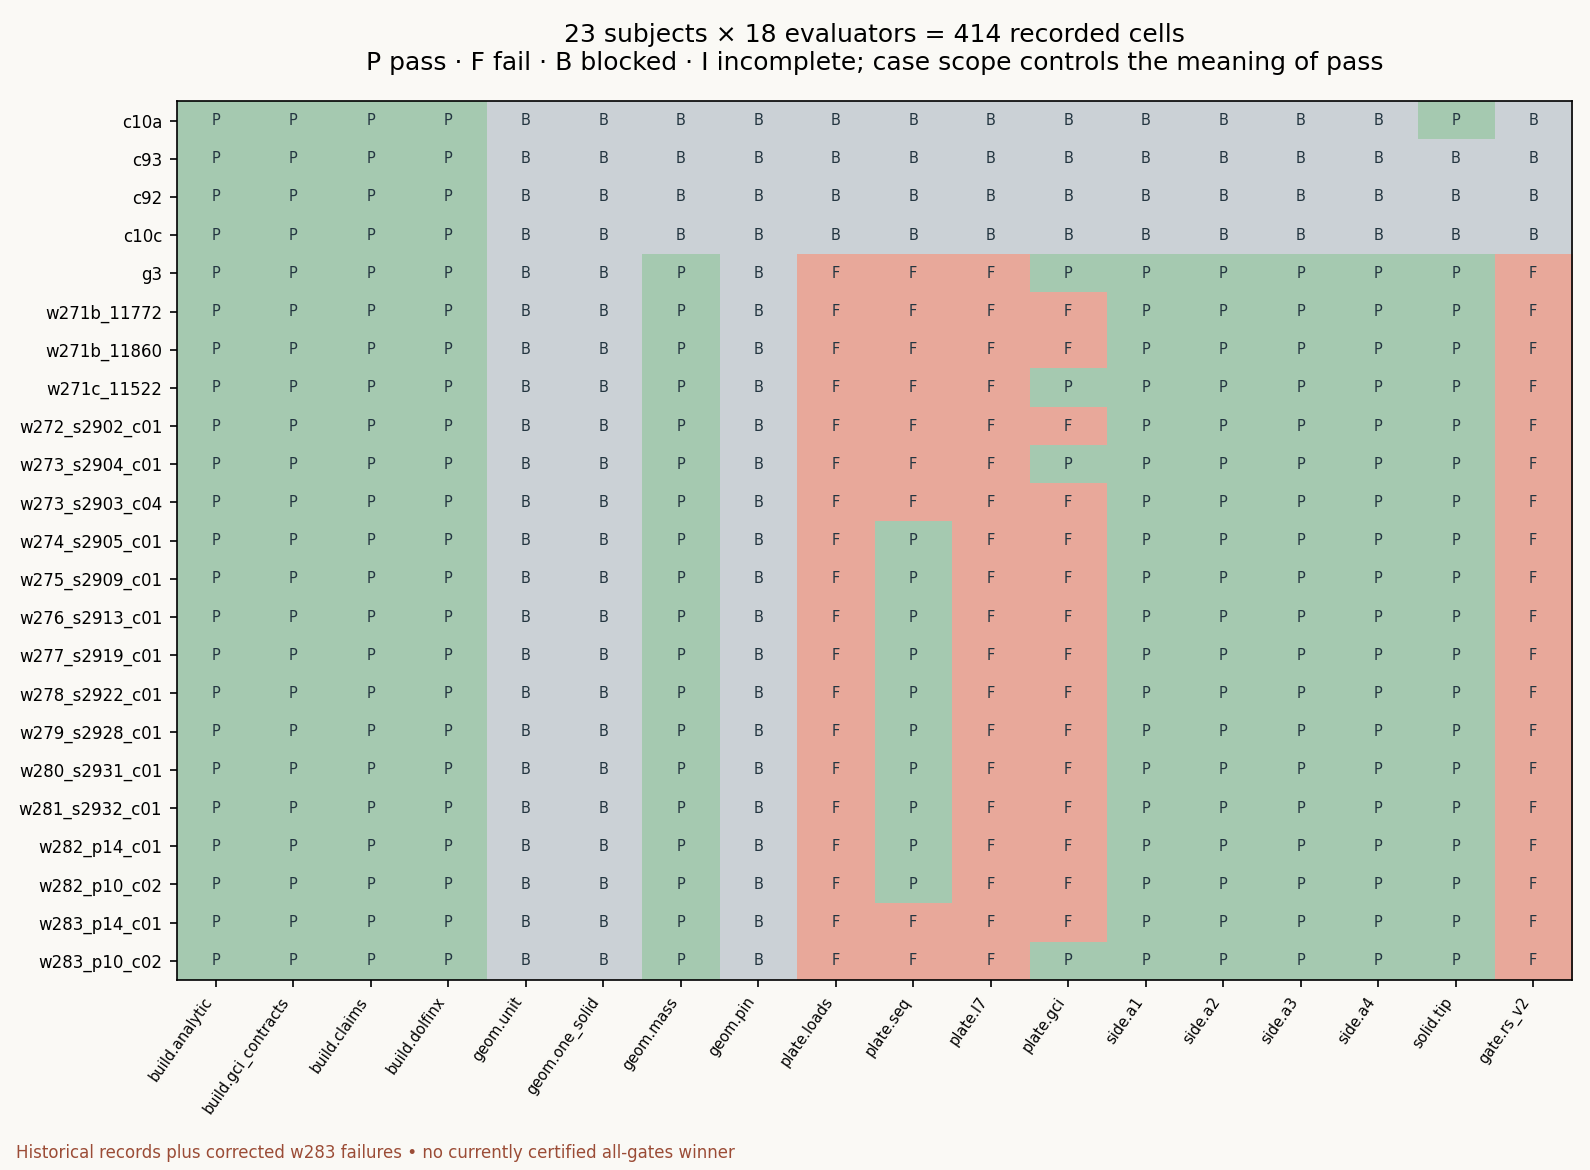
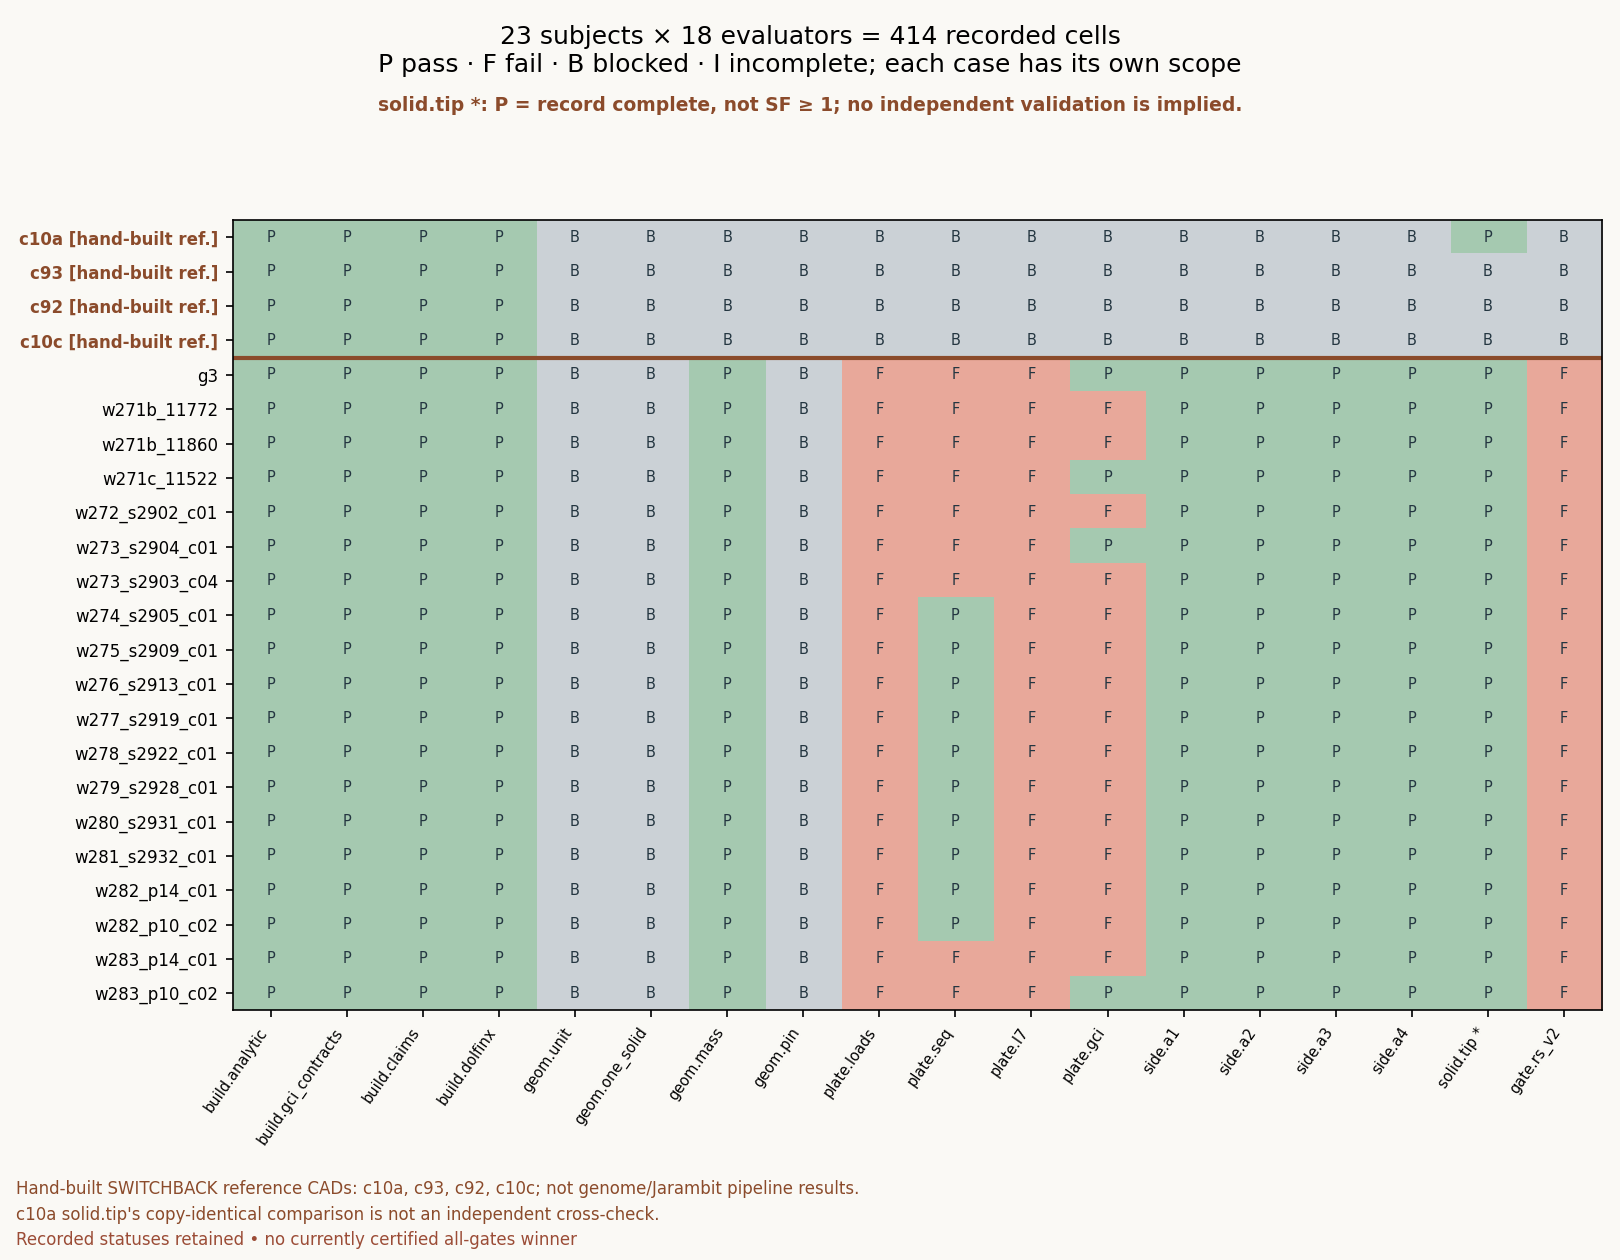
docs: distinguish hand-built battery references and solver record status

diff --git a/ops/render/paper/battery.py b/ops/render/paper/battery.py
@@ -20,6 +20,8 @@ ROOT=Path(__file__).resolve().parents[3]
 sys.path.insert(0,str(ROOT/'ops/wave_figures'))
 import figlib
 
+REFERENCE_CADS = frozenset({'c10a', 'c93', 'c92', 'c10c'})
+
 
 def main():
     out=ROOT/'docs/figures/engineering_gates';out.mkdir(parents=True,exist_ok=True)
@@ -29,11 +31,17 @@ def main():
     statuses=['pass','fail','blocked','incomplete'];symbols=['P','F','B','I']
     colors=['#a5c9b0','#e8a89a','#cbd1d6','#efd39a']
     paths=[ROOT/'evidence/cad_battery'/f'{s}.json' for s in subjects]
-    data=[];points=[];totals=Counter()
+    data=[];points=[];subject_scopes=[];totals=Counter()
     for subject,path in zip(subjects,paths):
         subprocess.run(['git','ls-files','--error-unmatch',str(path.relative_to(ROOT))],cwd=ROOT,check=True,stdout=subprocess.DEVNULL)
         doc=json.loads(path.read_text());cases={c['id']:(i,c) for i,c in enumerate(doc['cases'])}
         assert set(cases)==set(case_ids) and len(doc['cases'])==18
+        reference=subject in REFERENCE_CADS
+        expected_roles=('native_cad','archived_not_on_main') if reference else ('genome',)
+        assert doc['role'] in expected_roles
+        subject_scopes.append(dict(subject=subject,role=doc['role'],source=str(path.relative_to(ROOT)),
+            pointer='/role',scope='hand-built SWITCHBACK reference CAD; not a genome/Jarambit pipeline result' if reference else 'genome',
+            plot_label=subject+' [hand-built ref.]' if reference else subject))
         row=[]
         for cid in case_ids:
             i,c=cases[cid];st=c['status'];assert st in statuses
@@ -41,17 +49,28 @@ def main():
             points.append(dict(subject=subject,case=cid,status=st,kind=c['kind'],source=str(path.relative_to(ROOT)),pointer=f'/cases/{i}/status'))
         data.append(row)
     plt.rcParams.update({'font.family':'DejaVu Sans','font.size':8})
-    fig,ax=plt.subplots(figsize=(10.6,7.8),facecolor='#faf9f5')
+    fig,ax=plt.subplots(figsize=(10.8,8.4),facecolor='#faf9f5')
     ax.imshow(data,cmap=ListedColormap(colors),vmin=-.5,vmax=3.5,aspect='auto')
-    ax.set_xticks(range(18),case_ids,rotation=55,ha='right',fontsize=7)
-    ax.set_yticks(range(23),subjects,fontsize=8)
+    ax.set_xticks(range(18),[c+' *' if c=='solid.tip' else c for c in case_ids],rotation=55,ha='right',fontsize=7)
+    ax.set_yticks(range(23),[s['plot_label'] for s in subject_scopes],fontsize=8)
+    for i,tick in enumerate(ax.get_yticklabels()):
+        if subjects[i] in REFERENCE_CADS:tick.set_color('#8b4b2b');tick.set_fontweight('bold')
+        if i+1<len(subjects) and (subjects[i] in REFERENCE_CADS)!=(subjects[i+1] in REFERENCE_CADS):
+            ax.axhline(i+.5,color='#8b4b2b',linewidth=2)
     for i,row in enumerate(data):
         for j,n in enumerate(row):ax.text(j,i,symbols[n],ha='center',va='center',fontsize=7,color='#243641')
-    ax.set_title('23 subjects × 18 evaluators = 414 recorded cells\nP pass · F fail · B blocked · I incomplete; case scope controls the meaning of pass',fontsize=12,pad=15)
-    fig.text(.01,.01,'Historical records plus corrected w283 failures • no currently certified all-gates winner',fontsize=8,color='#9b4c36')
-    fig.tight_layout(rect=(0,.03,1,1));figure=out/'fig_battery_23.png';fig.savefig(figure,dpi=150);plt.close(fig)
-    ledger=out/'battery_points.json';ledger.write_text(json.dumps({'schema':1,'totals':dict(totals),'cells':points},indent=1,sort_keys=True)+'\n')
-    figlib.write_manifest(str(figure),paths+[manifest,ledger,Path(__file__).resolve()],str(Path(__file__).resolve()),extra={'command':'python3 ops/render/paper/battery.py','case_status_totals':dict(totals),'denominator':414})
+    fig.suptitle('23 subjects × 18 evaluators = 414 recorded cells\nP pass · F fail · B blocked · I incomplete; each case has its own scope',fontsize=12,y=.98)
+    solid_scope='solid.tip *: P = record complete, not SF ≥ 1; no independent validation is implied.'
+    reference_scope='Hand-built SWITCHBACK reference CADs: c10a, c93, c92, c10c; not genome/Jarambit pipeline results.'
+    independence_note="c10a solid.tip's copy-identical comparison is not an independent cross-check."
+    fig.text(.5,.912,solid_scope,ha='center',fontsize=9,fontweight='bold',color='#8b4b2b')
+    fig.text(.01,.052,reference_scope,fontsize=8,color='#8b4b2b')
+    fig.text(.01,.032,independence_note,fontsize=8,color='#8b4b2b')
+    fig.text(.01,.012,'Recorded statuses retained • no currently certified all-gates winner',fontsize=8,color='#9b4c36')
+    fig.tight_layout(rect=(0,.075,1,.9));figure=out/'fig_battery_23.png';fig.savefig(figure,dpi=150);plt.close(fig)
+    annotations=dict(solid_tip_status=solid_scope,reference_cads=reference_scope,c10a_independence=independence_note)
+    ledger=out/'battery_points.json';ledger.write_text(json.dumps({'schema':1,'totals':dict(totals),'subjects':subject_scopes,'annotations':annotations,'cells':points},indent=1,sort_keys=True)+'\n')
+    figlib.write_manifest(str(figure),paths+[manifest,ledger,Path(__file__).resolve()],str(Path(__file__).resolve()),extra={'command':'python3 ops/render/paper/battery.py','case_status_totals':dict(totals),'denominator':414,'annotations':annotations,'hand_built_reference_cads':sorted(REFERENCE_CADS)})
     catalog=ROOT/'docs/v1/science/tests/TEST_CASE_CATALOG.json';cases=json.loads(catalog.read_text())['cases']
     counts=Counter(c['work_unit'] for c in cases);states=Counter(c['status'] for c in cases)
     summary=out/'assurance_inventory.json';summary.write_text(json.dumps({'schema':1,'source':str(catalog.relative_to(ROOT)),

diff --git a/ops/ci/gen_whitepaper.py b/ops/ci/gen_whitepaper.py
@@ -72,7 +72,7 @@ def hero(context=None):
         '',
         f'![All 16 engineering gates and margin vs threshold for {rec_subj}](figures/whitepaper/fig_w279_gate_margins.png)',
         '',
-        f'*Fig. 0b — All {n_tot} engineering gates (`{n_pass}/{n_tot}` pass) for `{rec_subj}` (`evidence/rs_v2/{rec_wave}_ultrarunner/{rec_subj}_cad_eval.json`, '
+        f'*Fig. 0b — Historical (pre-#82 model): All {n_tot} engineering gates (`{n_pass}/{n_tot}` pass) for `{rec_subj}` (`evidence/rs_v2/{rec_wave}_ultrarunner/{rec_subj}_cad_eval.json`, '
         f'`evidence/cad_battery/{rec_subj}.json`, manifest `docs/figures/whitepaper/fig_w279_gate_margins.png.manifest.json`): '
         f'(a) normalized structural safety ratios ($\\text{{value}}/\\text{{threshold}} \\ge 1.0$) and reserve percentages (`strict_lat = {em["strict_lat_rob_0p0625_n"]:.1f} N` / `SF = {em["sf_hunter_strict"]:.4f}` `+{100.0 * (em["sf_hunter_strict"] - 1.0):.2f} %`, '
         f'`twist_strict SF = {em["twist_tipzone_sf_strict"]:.3f}` `+{100.0 * (em["twist_tipzone_sf_strict"] - 1.0):.2f} %`, `twist_tip SF = {em["twist_tip_sf"]:.3f}` `+{100.0 * (em["twist_tip_sf"] - 1.0):.2f} %`, '

diff --git a/docs/WHITEPAPER.md b/docs/WHITEPAPER.md
@@ -36,7 +36,7 @@ Source: `evidence/rs_v2/w283_ultrarunner/*_{cad_eval,rs,solid_tip}.json`; raw so
 
 ![All 16 engineering gates and margin vs threshold for w282_p14_c01](figures/whitepaper/fig_w279_gate_margins.png)
 
-*Fig. 0b — All 16 engineering gates (`16/16` pass) for `w282_p14_c01` (`evidence/rs_v2/w282_ultrarunner/w282_p14_c01_cad_eval.json`, `evidence/cad_battery/w282_p14_c01.json`, manifest `docs/figures/whitepaper/fig_w279_gate_margins.png.manifest.json`): (a) normalized structural safety ratios ($\text{value}/\text{threshold} \ge 1.0$) and reserve percentages (`strict_lat = 262.6 N` / `SF = 1.0100` `+1.00 %`, `twist_strict SF = 1.125` `+12.50 %`, `twist_tip SF = 1.141` `+14.10 %`, `solid_tip_3d P2 SF = 1.4093` `+40.93 %`, `seq_ratio_cert = 1.201 >= 1.20` `+0.08 %`, `side.a4 supported seq = 4.042`, `buckling P_cr = 1521.6 N`, `dolfinx vs skfem = 0.0213 % <= 2.0 %`); (b) exact metrics and thresholds for all 16 `W_CAD_v2` gates (historical Wave-27 `g3_tip+00_t60_tt3` 3D CAD and FEM plates remain in §III-G and §III-H).*
+*Fig. 0b — Historical (pre-#82 model): All 16 engineering gates (`16/16` pass) for `w282_p14_c01` (`evidence/rs_v2/w282_ultrarunner/w282_p14_c01_cad_eval.json`, `evidence/cad_battery/w282_p14_c01.json`, manifest `docs/figures/whitepaper/fig_w279_gate_margins.png.manifest.json`): (a) normalized structural safety ratios ($\text{value}/\text{threshold} \ge 1.0$) and reserve percentages (`strict_lat = 262.6 N` / `SF = 1.0100` `+1.00 %`, `twist_strict SF = 1.125` `+12.50 %`, `twist_tip SF = 1.141` `+14.10 %`, `solid_tip_3d P2 SF = 1.4093` `+40.93 %`, `seq_ratio_cert = 1.201 >= 1.20` `+0.08 %`, `side.a4 supported seq = 4.042`, `buckling P_cr = 1521.6 N`, `dolfinx vs skfem = 0.0213 % <= 2.0 %`); (b) exact metrics and thresholds for all 16 `W_CAD_v2` gates (historical Wave-27 `g3_tip+00_t60_tt3` 3D CAD and FEM plates remain in §III-G and §III-H).*
 
 ![Committed Wave 283 exported CAD and corrected certificate](figures/whitepaper/fig_web_studio.png)
 
@@ -342,9 +342,9 @@ The [#75](https://github.com/neverhuman/jarambit/issues/75)–[#81](https://gith
 
 The final independent w283 fine meshes have 91,008 P2 tetrahedra / 416,583 DOFs. The distinct solvers agree to less than 0.04% in reported SF observations, yet both candidates fail. The [audit archive](../evidence/cert_integrity/v1.0.0-retracted/) preserves invalid certificates for traceability; corrected observations remain under [recertified](../evidence/cert_integrity/recertified/). The final identity migration explicitly reports `solve_rerun=false`, retaining prior real observations rather than claiming another solve. There is **no currently certified all-gates winner; 0/23 CAD subjects pass RS-v2 all-hard**. Any w284–w29x rejected-pipeline output is **PROVISIONAL** until re-certified on fixed main.
 
-![All 414 recorded CAD battery cells](figures/engineering_gates/fig_battery_23.png)
+![All 414 recorded cells, separating 19 genomes from four hand-built SWITCHBACK reference CADs](figures/engineering_gates/fig_battery_23.png)
 
-*Figure V1. The current **23-subject ×18-evaluator** battery. Case-specific pass means what that evaluator establishes; a complete solid-solver record can still have failing SF. `blocked` and `incomplete` cannot be silently counted as physical acceptance. [battery_points.json](figures/engineering_gates/battery_points.json) traces every cell to its committed source and JSON pointer.*
+*Figure V1. The current **23-subject ×18-evaluator** battery contains 19 genomes and four hand-built SWITCHBACK reference CADs (`c10a`, `c93`, `c92`, `c10c`), labeled above the separator; these four are not genome or Jarambit pipeline results. In `solid.tip`, P means record complete, not SF ≥1 or independent validation. c10a's stored copy-identical solver comparison is not an independent cross-check. `blocked` and `incomplete` cannot be silently counted as physical acceptance. [battery_points.json](figures/engineering_gates/battery_points.json) traces every cell to its committed source and JSON pointer.*
 
 RS-v2's ten groups add human-maximum static loads (16.2 N·m twist, 3427 N spine, provisional 3000 N ring-back), Goodman fatigue for 0…180 N at $R=0$, $10^7$ cycles, measured bearing ≥10 mm and bore radius ≥1.5 mm, measured apex ≤0.20 mm and half-angle ≤25°, and point-section/monotonicity requirements. The 1000 N in-plane tip case remains record-only. The companion §III gives the exact conjunction, material/fatigue equations, thresholds and measurement methods. The 18 battery evaluators include software contracts, geometry, plate/side diagnostics, the solid record and RS-v2; they are not 18 additional strength gates.
 

diff --git a/COMMS.md b/COMMS.md
@@ -238,3 +238,4 @@ Format: `YYYY-MM-DD HH:MM UTC | screen | claim / status / handoff`.
 2026-10-17 02:41 UTC | jarambit_paper | PROGRESS: Both existing papers extended with 16 source-derived gate subsubsections, exact RS-v2 groups and 23x18 battery, corrected assurance-catalog map/receipt limits and audit #75-#81/#82. Seven historical population/archive figures plus verification and 414-cell matrix regenerate from tracked files with point ledgers; repeated population generation gives identical PNG hashes. Blender 4.5.3 official checksum verified (Ubuntu 4.0.2 lacks OIDN), bounded Cycles 4 CPU/48 samples; 16 gate + 3 hero WebP atlas rendering. Added only figure registration lines in ops/ci/figures_required.txt so CI detects missing new manifests. PDF builder prepared for source commit; outputs/logs stay lane target/paper. Metrics 12, CI Python 154, assurance 28, research 141, history 72, laboratory 7 passed; solid suite ran 52 tests successfully with one opt-in slow rerun skipped; Rust workspace and D1 checks still running. No crates/evidence/owner pipeline edits.
 2026-10-17 02:55 UTC | jarambit_paper | HANDOFF: Paper branch is based on post-#82 main 4cd0f994e803 and ready for one focused PR. Extended both existing papers with every W_CAD gate, RS-v2 and 23x18=414 battery, actual assurance-catalog scope, certificate-integrity audit and corrected w283 failures (SF 0.9577/0.9578, 0/23 all_hard; no certified all-gates winner; rejected-pipeline w284-w29x PROVISIONAL). Added seven committed-data population/archive plots, verification/retraction plate, complete battery matrix, 16 gate Cycles plates and three historical w282 hero/section WebP renders (19 images total ~1.1 MB), point ledgers, SHA manifests and source renderers. PDF builder creates warning-free 34-page WHITEPAPER and 31-page engineering companion under target/paper with commit-pinned source links and build manifests; PDFs remain generated artifacts. Local release workspace 246 passed/0 failed/1 existing ignored, Clippy, 4 D1 lock tests and reference D1 smoke/strict JSON passed; all 15 bounded version-workflow run steps passed, 48 figure manifests and all doc generators green; final-head checks rerunning after this log entry. No crates/evidence/auto_evolve/evolve.sh/threshold changes. No open Jarambit PR or published priority-fix branch observed before preparation. Push only paper/whitepaper-gates-evolution over HTTPS; before opening re-check zero open PRs, then require CI and independent neverhumanbot APPROVE at exact head, merge only --rebase --match-head-commit.
 2026-10-17 03:03 UTC | jarambit_paper | PROGRESS PR #83: Final source check clarified the solid-tip load as balanced minimum-norm vertex z-forces over the 2 mm tip patch, and made the 4-15 mm / >3 mm cut-distance stress ROI explicit in both papers. No numerical result or requirement changed. Updating source/PDF bindings and rerunning document checks before a normal follow-up push; exact-head independent review still required.
+2026-10-17 03:56 UTC | jarambit_paper | PROGRESS PR #83 review: Remote branch fetched and confirmed unchanged at 43df8944c5ec04ce9cc922c7d387592cfd05cf0d. Addressing P1-1/P2-2/P3-4 only: label the four existing hand-built SWITCHBACK reference CAD rows, distinguish solid.tip record completeness from strength/independence, disclaim c10a comparison, and prefix the generated historical 16/16 caption. Same branch/PR, no gate/evidence/design changes or promotion; one normal push after local required checks, then CI and exact-head re-review, no merge.

diff --git a/docs/ENGINEERING_GATES_AND_EVOLUTION.md b/docs/ENGINEERING_GATES_AND_EVOLUTION.md
@@ -218,6 +218,8 @@ For fatigue [fem.rs::fatigue::goodman_sf](../crates/crescent/src/fem.rs) uses $S
 
 [manifest.json](../evidence/cad_battery/manifest.json) enumerates **23 subjects** and these **18 unique case IDs**. Their Cartesian product has **414 cells**. The matrix preserves `pass`, `fail`, `blocked`, and `incomplete`; a missing capability is never a passed structural test. `solid.tip` can report that a solver record is complete while its SF fails the physical strength requirement; read case `kind`, metrics and `gate.rs_v2` together.
 
+The subjects comprise **19 genomes and four hand-built SWITCHBACK reference CADs: `c10a`, `c93`, `c92`, and `c10c`**. Those four are **not genome or Jarambit pipeline results**; their labeled rows retain existing reference records. In the `solid.tip` column, **P means record complete, not SF ≥1 or independent validation**. The two w283 rows retain P with SF 0.9577/0.9578. The [c10a solid-tip record](../evidence/cad_battery/c10a.json) reports SF 0.2101 and copy-identical primary/comparison SF values; its stored `dolfinx_cross_check` is **not an independent cross-check**. That reference record supplies neither a strength pass nor independent certification.
+
 | Evaluators | What their records establish |
 |---|---|
 | `build.analytic`, `build.gci_contracts`, `build.claims`, `build.dolfinx` | Software or runtime capability contracts, with their own execution/admission status. |
@@ -227,9 +229,9 @@ For fatigue [fem.rs::fatigue::goodman_sf](../crates/crescent/src/fem.rs) uses $S
 | `solid.tip` | Local quadratic-solid solve record and its metrics, including independence metadata. |
 | `gate.rs_v2` | Full observed RS-v2 conjunction; missing inputs prevent qualification. |
 
-![The complete 23-subject by 18-evaluator matrix](figures/engineering_gates/fig_battery_23.png)
+![The 23-subject matrix separates 19 genomes from four hand-built SWITCHBACK reference CADs](figures/engineering_gates/fig_battery_23.png)
 
-*Figure 1. All 414 recorded cells, regenerated by [battery.py](../ops/render/paper/battery.py). Every cell is traced by JSON pointer in [battery_points.json](figures/engineering_gates/battery_points.json); the PNG manifest hashes the 23 source records. Historical record reuse and corrected w283 observations remain distinguishable from a fresh certification. The earlier 17-subject illustration is superseded here.*
+*Figure 1. All 414 recorded cells, regenerated by [battery.py](../ops/render/paper/battery.py). The four labeled rows above the separator (`c10a`, `c93`, `c92`, `c10c`) are hand-built SWITCHBACK reference CADs, not genome or Jarambit pipeline results. In `solid.tip`, P means record complete, not SF ≥1; c10a's copy-identical comparison is not an independent cross-check. Every cell is traced by JSON pointer in [battery_points.json](figures/engineering_gates/battery_points.json); the PNG manifest hashes the 23 source records. Historical record reuse and corrected w283 observations remain distinguishable from a fresh certification. The earlier 17-subject illustration is superseded here.*
 
 A full catalog command uses all 23 explicit IDs, or the CLI's default catalog; [score_cad.rs](../crates/cli/src/score_cad.rs) documents the actual flags:
 
